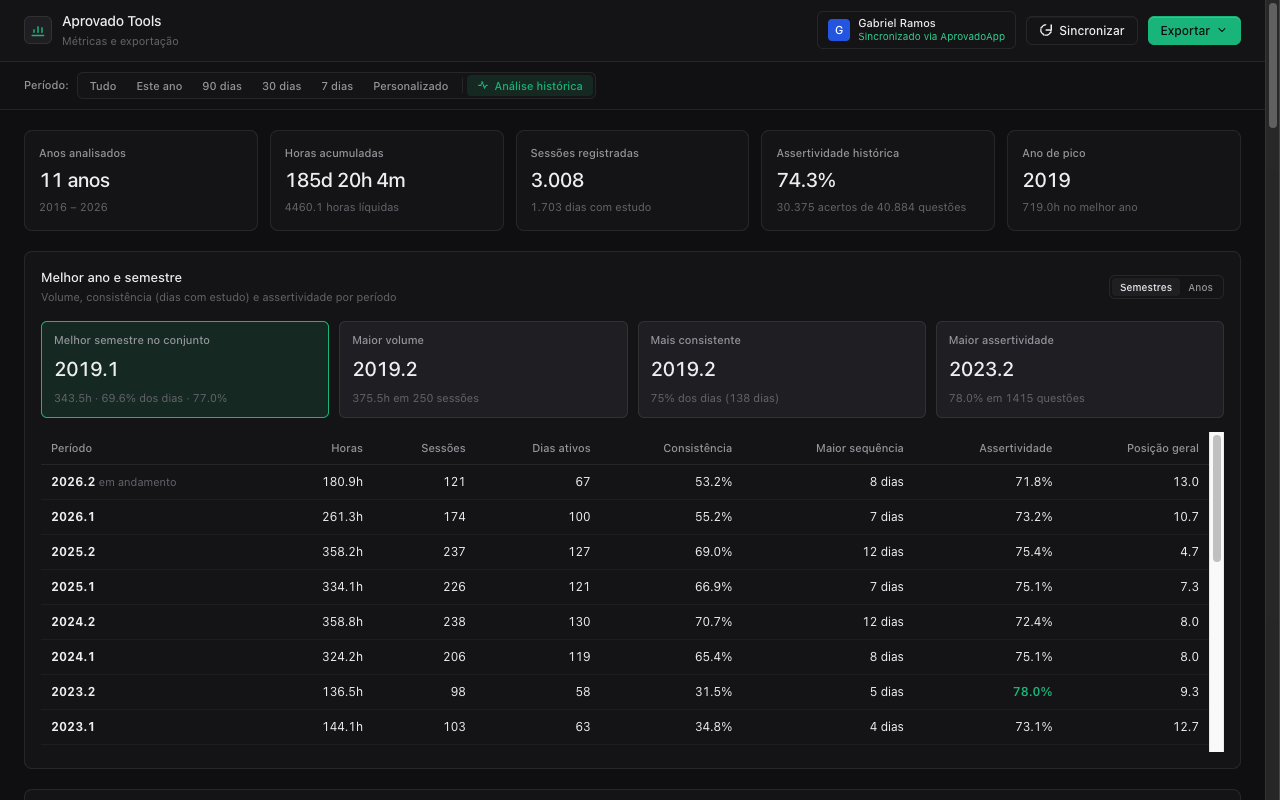
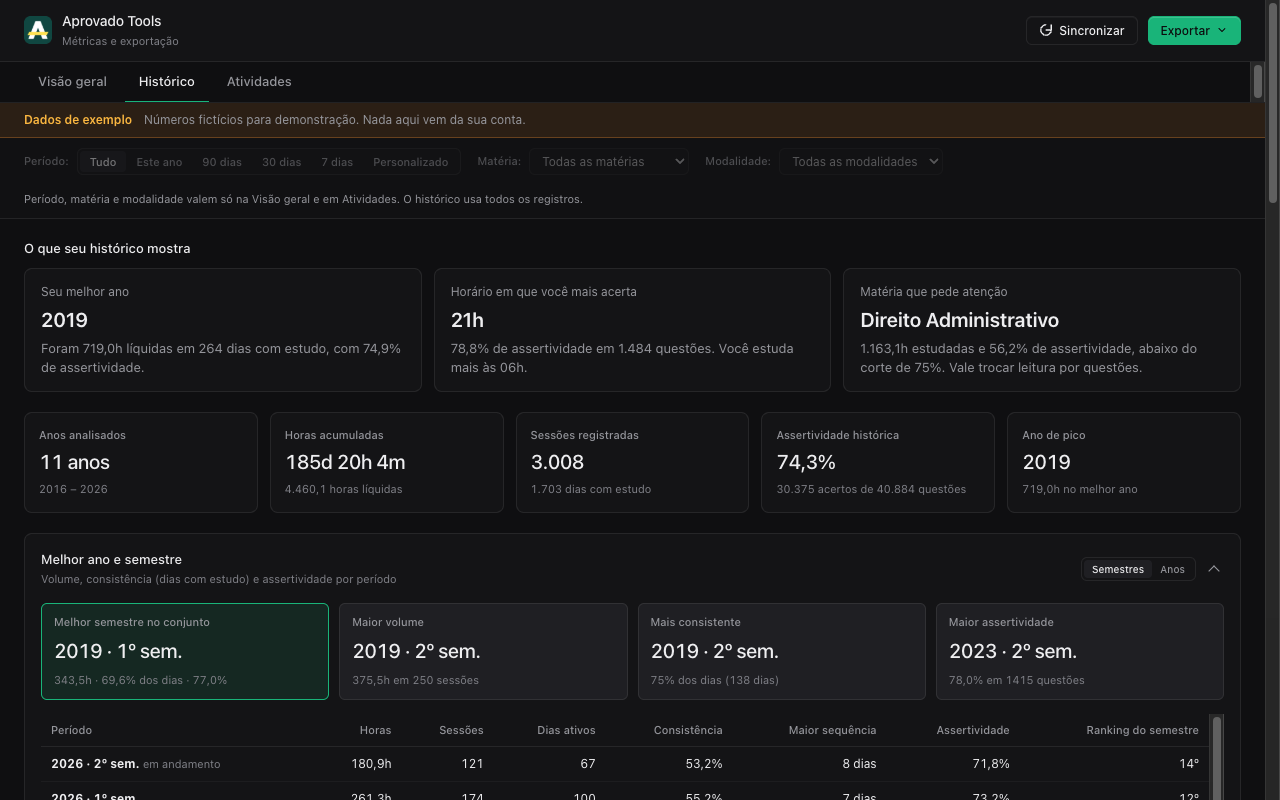
chore: refresh Chrome Web Store screenshots and drop trademark pendency
Retake the four 1280x800 screenshots with the new icon and tabs, update
their descriptions, and remove the trademark-search pendency since this
is a personal, non-commercial project.

diff --git a/docs/marca/guia.html b/docs/marca/guia.html
@@ -158,7 +158,7 @@ section { min-width: 0; }
 
 <main class="wrap">
   <header>
-    <p class="eyebrow">Guia da marca · versão 1 · 3 de novembro de 2026 · ainda não aplicada à extensão</p>
+    <p class="eyebrow">Guia da marca · versão 1 · 3 de novembro de 2026 · aplicada à extensão</p>
     <h1>Aprovado Tools,<br><mark>grifado</mark>.</h1>
     <p class="lede">A barra do A é uma passada de marca-texto, como quem grifa a lei seca. O símbolo junta o nome ao gesto mais típico de quem estuda para concurso, sem prometer aprovação e sem lembrar o logo oficial do AprovadoApp.</p>
     <div class="hero-lockup"><svg aria-hidden="true" xmlns="http://www.w3.org/2000/svg" viewBox="0 0 1453 256"><rect width="256" height="256" rx="56" fill="#0B4F4A"/><path d="M104 44.8 L152 44.8 L185.92 129.6 L137.92 129.6 L128 104.8 L118.08 129.6 L70.08 129.6Z" fill="#FFFFFF"/><path d="M48.32 184 L96.32 184 L88 204.8 L40 204.8Z" fill="#FFFFFF"/><path d="M159.68 184 L207.68 184 L216 204.8 L168 204.8Z" fill="#FFFFFF"/><path d="M44 136.8 L228 136.8 L212 176.8 L28 176.8Z" fill="#FFE53B"/><path transform="translate(320 181.76) scale(0.16291)" d="M6.8570556640625 0.0 228.71417236328125 -660.0H446.42822265625L667.571044921875 0.0H492.28533935546875L341.42828369140625 -530.4285278320312H332.57122802734375L180.71417236328125 0.0ZM134.1427001953125 -118.99993896484375V-231.28570556640625H561.42822265625V-118.99993896484375Z M701.7140502929688 154.2855224609375V-316.000732421875V-528.0H840.5712890625L841.1427001953125 -368.71417236328125L851.5711669921875 -368.14276123046875Q861.999755859375 -426.28564453125 884.2854614257812 -465.0713806152344Q906.5711669921875 -503.85711669921875 941.642578125 -522.9285583496094Q976.7139892578125 -542.0 1025.142578125 -542.0Q1089.42822265625 -542.0 1134.9281616210938 -509.7857360839844Q1180.4281005859375 -477.57147216796875 1204.3566284179688 -415.6429138183594Q1228.28515625 -353.71435546875 1228.28515625 -264.2857666015625Q1228.28515625 -172.71417236328125 1203.3565673828125 -110.71417236328125Q1178.427978515625 -48.71417236328125 1133.28515625 -17.357086181640625Q1088.142333984375 14.0 1027.2853393554688 14.0Q981.1425170898438 14.0 946.7853698730469 -4.571441650390625Q912.42822265625 -23.14288330078125 889.6425170898438 -61.071502685546875Q866.8568115234375 -99.0001220703125 855.8568725585938 -156.14306640625H843.714111328125Q848.9998168945312 -127.7144775390625 853.4283752441406 -97.3572998046875Q857.85693359375 -67.0001220703125 860.6426391601562 -37.785797119140625Q863.4283447265625 -8.57147216796875 863.4283447265625 18.28570556640625V154.2855224609375ZM966.8567504882812 -117.2857666015625Q999.1424560546875 -117.2857666015625 1020.4995727539062 -136.71435546875Q1041.856689453125 -156.1429443359375 1052.3566589355469 -188.78579711914062Q1062.8566284179688 -221.42864990234375 1062.8566284179688 -259.71429443359375Q1062.8566284179688 -301.7142333984375 1051.49951171875 -334.49993896484375Q1040.1423950195312 -367.28564453125 1018.3567199707031 -386.49993896484375Q996.571044921875 -405.7142333984375 965.7139282226562 -405.7142333984375Q943.2854614257812 -405.7142333984375 924.2854919433594 -395.78570556640625Q905.2855224609375 -385.857177734375 891.4283752441406 -367.21435546875Q877.5712280273438 -348.571533203125 869.7854919433594 -322.42864990234375Q861.999755859375 -296.2857666015625 861.999755859375 -263.14276123046875V-252.57147216796875Q861.999755859375 -225.7142333984375 867.7140502929688 -204.57135009765625Q873.4283447265625 -183.428466796875 883.4283447265625 -166.99990844726562Q893.4283447265625 -150.57135009765625 906.7140502929688 -139.42852783203125Q919.999755859375 -128.28570556640625 935.2854309082031 -122.78573608398438Q950.5711059570312 -117.2857666015625 966.8567504882812 -117.2857666015625Z M1284.7140502929688 0.0V-274.71466064453125V-528.0H1422.1427001953125L1422.9998168945312 -327.142578125H1434.7139892578125Q1440.9996948242188 -406.85699462890625 1459.0711059570312 -453.3570556640625Q1477.1425170898438 -499.85711669921875 1506.4995727539062 -519.9285583496094Q1535.8566284179688 -540.0 1575.1421508789062 -540.0Q1590.2850952148438 -540.0 1606.9280395507812 -536.2856750488281Q1623.5709838867188 -532.5713500976562 1640.8567504882812 -524.1427001953125L1633.4281616210938 -346.71405029296875Q1613.1423950195312 -357.99981689453125 1592.8566589355469 -363.35699462890625Q1572.5709228515625 -368.71417236328125 1554.9994506835938 -368.71417236328125Q1520.99951171875 -368.71417236328125 1497.1424255371094 -351.5712890625Q1473.2853393554688 -334.42840576171875 1460.3568115234375 -300.7140808105469Q1447.4282836914062 -266.999755859375 1445.999755859375 -217.85687255859375V0.0Z M1919.85693359375 14.0Q1842.4284057617188 14.0 1782.7141418457031 -16.642852783203125Q1722.9998779296875 -47.28570556640625 1689.428466796875 -108.92855834960938Q1655.8570556640625 -170.5714111328125 1655.8570556640625 -263.5714111328125Q1655.8570556640625 -359.4285888671875 1690.4999084472656 -420.9285888671875Q1725.1427612304688 -482.4285888671875 1785.3570251464844 -512.2142944335938Q1845.5712890625 -542.0 1921.9998168945312 -542.0Q2000.85693359375 -542.0 2060.356903076172 -511.3571472167969Q2119.8568725585938 -480.71429443359375 2153.0711364746094 -419.21429443359375Q2186.285400390625 -357.71429443359375 2186.285400390625 -264.0Q2186.285400390625 -167.5714111328125 2151.3568420410156 -105.92855834960938Q2116.4282836914062 -44.28570556640625 2056.0711669921875 -15.142852783203125Q1995.7140502929688 14.0 1919.85693359375 14.0ZM1924.1426391601562 -104.4285888671875Q1956.5711669921875 -104.4285888671875 1978.4282836914062 -121.64288330078125Q2000.285400390625 -138.857177734375 2011.5711059570312 -172.857177734375Q2022.8568115234375 -206.857177734375 2022.8568115234375 -254.71429443359375Q2022.8568115234375 -307.0 2010.5711059570312 -342.78570556640625Q1998.285400390625 -378.5714111328125 1974.9282836914062 -397.7142639160156Q1951.5711669921875 -416.85711669921875 1917.2855224609375 -416.85711669921875Q1885.8569946289062 -416.85711669921875 1863.8570251464844 -399.642822265625Q1841.8570556640625 -382.42852783203125 1830.5713500976562 -348.42852783203125Q1819.28564453125 -314.42852783203125 1819.28564453125 -265.5714111328125Q1819.28564453125 -187.857177734375 1846.928466796875 -146.14288330078125Q1874.5712890625 -104.4285888671875 1924.1426391601562 -104.4285888671875Z M2340.4284057617188 0.0 2177.4285278320312 -527.7142944335938H2351.428466796875L2445.2855224609375 -131.71435546875H2452.9996948242188L2549.9996337890625 -527.7142944335938H2714.5709838867188L2551.285400390625 0.0Z M2855.1427612304688 14.0Q2813.9999389648438 14.0 2778.5713500976562 -0.999969482421875Q2743.1427612304688 -15.99993896484375 2721.2855834960938 -48.07135009765625Q2699.4284057617188 -80.14276123046875 2699.4284057617188 -131.7142333984375Q2699.4284057617188 -179.5714111328125 2717.9998474121094 -209.78570556640625Q2736.5712890625 -240.0 2768.9998474121094 -258.21429443359375Q2801.4284057617188 -276.4285888671875 2842.142608642578 -286.5Q2882.8568115234375 -296.5714111328125 2926.4280395507812 -304.142822265625Q2971.8568115234375 -312.71429443359375 2995.999725341797 -318.2857360839844Q3020.1426391601562 -323.857177734375 3029.7854919433594 -332.4285888671875Q3039.4283447265625 -341.0 3039.4283447265625 -356.42852783203125Q3039.4283447265625 -384.28570556640625 3018.9283142089844 -400.142822265625Q2998.4282836914062 -415.99993896484375 2961.999755859375 -415.99993896484375Q2938.2855224609375 -415.99993896484375 2915.9998168945312 -407.42852783203125Q2893.714111328125 -398.85711669921875 2879.1427001953125 -378.7856750488281Q2864.5712890625 -358.7142333984375 2862.9999389648438 -323.85699462890625L2719.5713500976562 -343.2852783203125Q2722.1426391601562 -400.28546142578125 2743.856903076172 -438.6427001953125Q2765.5711669921875 -476.99993896484375 2801.0711975097656 -499.642822265625Q2836.5712280273438 -522.2857055664062 2879.6426696777344 -532.1428527832031Q2922.714111328125 -542.0 2967.4283447265625 -542.0Q3046.7140502929688 -542.0 3097.5711975097656 -513.642822265625Q3148.4283447265625 -485.28564453125 3172.9283447265625 -430.3570556640625Q3197.4283447265625 -375.428466796875 3197.4283447265625 -294.99993896484375V-204.714111328125Q3197.4283447265625 -170.85699462890625 3197.856903076172 -136.4998779296875Q3198.2854614257812 -102.14276123046875 3198.999725341797 -68.14279174804688Q3199.7139892578125 -34.142822265625 3200.8568115234375 0.0H3060.285400390625Q3059.142578125 -32.28582763671875 3057.999755859375 -67.8572998046875Q3056.85693359375 -103.42877197265625 3056.2855224609375 -142.4288330078125H3046.28564453125Q3039.4285888671875 -99.42877197265625 3013.6428833007812 -63.785858154296875Q2987.857177734375 -28.1429443359375 2947.5 -7.07147216796875Q2907.142822265625 14.0 2855.1427612304688 14.0ZM2923.8569946289062 -102.857177734375Q2941.1427001953125 -102.857177734375 2960.3569946289062 -109.357177734375Q2979.5712890625 -115.857177734375 2996.928436279297 -129.85720825195312Q3014.2855834960938 -143.85723876953125 3026.1427001953125 -167.50018310546875Q3037.9998168945312 -191.14312744140625 3040.2854614257812 -224.7147216796875L3039.7140502929688 -264.7142333984375L3064.9998168945312 -265.4285888671875Q3053.8570556640625 -252.71429443359375 3034.0713806152344 -245.0Q3014.2857055664062 -237.28570556640625 2991.142852783203 -232.92855834960938Q2968.0 -228.5714111328125 2944.7857055664062 -224.0714111328125Q2921.5714111328125 -219.5714111328125 2902.285675048828 -212.21426391601562Q2882.9999389648438 -204.85711669921875 2871.2142028808594 -192.49996948242188Q2859.428466796875 -180.142822265625 2859.428466796875 -158.42852783203125Q2859.428466796875 -131.85711669921875 2878.071319580078 -117.35714721679688Q2896.7141723632812 -102.857177734375 2923.8569946289062 -102.857177734375Z M3455.4282836914062 14.0Q3395.85693359375 14.0 3349.071258544922 -17.714263916015625Q3302.2855834960938 -49.42852783203125 3275.3570251464844 -112.28567504882812Q3248.428466796875 -175.142822265625 3248.428466796875 -268.57147216796875Q3248.428466796875 -356.4287109375 3272.428466796875 -417.3572692871094Q3296.428466796875 -478.28582763671875 3341.428436279297 -509.8572082519531Q3386.4284057617188 -541.4285888671875 3448.8568725585938 -541.4285888671875Q3495.9996948242188 -541.4285888671875 3531.2139892578125 -522.7142944335938Q3566.4282836914062 -504.0 3589.4282836914062 -464.42852783203125Q3612.4282836914062 -424.8570556640625 3622.8568115234375 -362.2855224609375H3636.4281005859375Q3630.856689453125 -395.99981689453125 3625.5709838867188 -428.2855529785156Q3620.2852783203125 -460.5712890625 3617.4995727539062 -490.2856140136719Q3614.7138671875 -519.9999389648438 3614.7138671875 -545.0V-705.714111328125H3776.7138671875V-207.1422119140625V0.0H3638.2852172851562L3637.7138061523438 -161.00006103515625H3626.42822265625Q3615.42822265625 -102.42864990234375 3592.6425170898438 -63.50006103515625Q3569.8568115234375 -24.57147216796875 3535.785400390625 -5.285736083984375Q3501.7139892578125 14.0 3455.4282836914062 14.0ZM3512.7139892578125 -115.28570556640625Q3535.1424560546875 -115.28570556640625 3554.1424255371094 -125.2142333984375Q3573.1423950195312 -135.14276123046875 3586.856689453125 -153.9998779296875Q3600.5709838867188 -172.85699462890625 3608.356719970703 -198.9998779296875Q3616.1424560546875 -225.14276123046875 3616.1424560546875 -257.57147216796875V-268.57135009765625Q3616.1424560546875 -295.4285888671875 3610.4281616210938 -317.6429138183594Q3604.7138671875 -339.85723876953125 3594.856719970703 -356.7857971191406Q3584.9995727539062 -373.71435546875 3571.7138671875 -385.2143249511719Q3558.4281616210938 -396.71429443359375 3542.7853393554688 -402.5714111328125Q3527.1425170898438 -408.42852783203125 3510.8568725585938 -408.42852783203125Q3479.2854614257812 -408.42852783203125 3457.5711975097656 -388.28564453125Q3435.85693359375 -368.14276123046875 3424.9998168945312 -334.7856140136719Q3414.1427001953125 -301.428466796875 3414.1427001953125 -260.7142333984375Q3414.1427001953125 -220.0 3425.856964111328 -186.85714721679688Q3437.5712280273438 -153.71429443359375 3459.7140502929688 -134.5Q3481.8568725585938 -115.28570556640625 3512.7139892578125 -115.28570556640625Z M4094.85693359375 14.0Q4017.4284057617188 14.0 3957.714141845703 -16.642852783203125Q3897.9998779296875 -47.28570556640625 3864.428466796875 -108.92855834960938Q3830.8570556640625 -170.5714111328125 3830.8570556640625 -263.5714111328125Q3830.8570556640625 -359.4285888671875 3865.4999084472656 -420.9285888671875Q3900.1427612304688 -482.4285888671875 3960.3570251464844 -512.2142944335938Q4020.5712890625 -542.0 4096.999816894531 -542.0Q4175.85693359375 -542.0 4235.356903076172 -511.3571472167969Q4294.856872558594 -480.71429443359375 4328.071136474609 -419.21429443359375Q4361.285400390625 -357.71429443359375 4361.285400390625 -264.0Q4361.285400390625 -167.5714111328125 4326.356842041016 -105.92855834960938Q4291.428283691406 -44.28570556640625 4231.0711669921875 -15.142852783203125Q4170.714050292969 14.0 4094.85693359375 14.0ZM4099.142639160156 -104.4285888671875Q4131.5711669921875 -104.4285888671875 4153.428283691406 -121.64288330078125Q4175.285400390625 -138.857177734375 4186.571105957031 -172.857177734375Q4197.8568115234375 -206.857177734375 4197.8568115234375 -254.71429443359375Q4197.8568115234375 -307.0 4185.571105957031 -342.78570556640625Q4173.285400390625 -378.5714111328125 4149.928283691406 -397.7142639160156Q4126.5711669921875 -416.85711669921875 4092.2855224609375 -416.85711669921875Q4060.8569946289062 -416.85711669921875 4038.8570251464844 -399.642822265625Q4016.8570556640625 -382.42852783203125 4005.5713500976562 -348.42852783203125Q3994.28564453125 -314.42852783203125 3994.28564453125 -265.5714111328125Q3994.28564453125 -187.857177734375 4021.928466796875 -146.14288330078125Q4049.5712890625 -104.4285888671875 4099.142639160156 -104.4285888671875Z" fill="#10201E"/><path transform="translate(1073.62 181.76) scale(0.16291)" d="M204.14263916015625 0.0V-660.0H313.64263916015625V0.0ZM16.57135009765625 -565.0714111328125V-660.0H501.3567810058594V-565.0714111328125Z M711.2855224609375 13.357147216796875Q638.1427001953125 13.357147216796875 580.9284210205078 -17.392837524414062Q523.7141418457031 -48.142822265625 491.0355682373047 -109.03567504882812Q458.35699462890625 -169.92852783203125 458.35699462890625 -260.2142639160156Q458.35699462890625 -351.9285583496094 491.7498474121094 -412.28570556640625Q525.1427001953125 -472.6428527832031 581.9998321533203 -502.82142639160156Q638.8569641113281 -533.0 709.7855224609375 -533.0Q782.7140808105469 -533.0 839.6426391601562 -502.1071472167969Q896.5711975097656 -471.21429443359375 929.3569030761719 -410.21429443359375Q962.1426086425781 -349.21429443359375 962.1426086425781 -258.1428527832031Q962.1426086425781 -166.21426391601562 929.1783294677734 -105.89283752441406Q896.2140502929688 -45.5714111328125 839.2854919433594 -16.107131958007812Q782.35693359375 13.357147216796875 711.2855224609375 13.357147216796875ZM713.4997863769531 -72.85714721679688Q757.0711975097656 -72.85714721679688 787.9283294677734 -94.0Q818.7854614257812 -115.14285278320312 835.4283142089844 -155.6071319580078Q852.0711669921875 -196.0714111328125 852.0711669921875 -252.92855834960938Q852.0711669921875 -312.28570556640625 834.6783142089844 -354.6071319580078Q817.2854614257812 -396.9285583496094 785.0354766845703 -420.1785583496094Q752.7854919433594 -443.4285583496094 707.6426696777344 -443.4285583496094Q664.714111328125 -443.4285583496094 633.5355529785156 -421.7856903076172Q602.3569946289062 -400.142822265625 585.4641418457031 -359.3571014404297Q568.5712890625 -318.5713806152344 568.5712890625 -261.4999694824219Q568.5712890625 -173.0 607.1069793701172 -122.92857360839844Q645.6426696777344 -72.85714721679688 713.4997863769531 -72.85714721679688Z M1279.2855224609375 13.357147216796875Q1206.1427001953125 13.357147216796875 1148.9284210205078 -17.392837524414062Q1091.7141418457031 -48.142822265625 1059.0355682373047 -109.03567504882812Q1026.3569946289062 -169.92852783203125 1026.3569946289062 -260.2142639160156Q1026.3569946289062 -351.9285583496094 1059.7498474121094 -412.28570556640625Q1093.1427001953125 -472.6428527832031 1149.9998321533203 -502.82142639160156Q1206.8569641113281 -533.0 1277.7855224609375 -533.0Q1350.7140808105469 -533.0 1407.6426391601562 -502.1071472167969Q1464.5711975097656 -471.21429443359375 1497.3569030761719 -410.21429443359375Q1530.1426086425781 -349.21429443359375 1530.1426086425781 -258.1428527832031Q1530.1426086425781 -166.21426391601562 1497.1783294677734 -105.89283752441406Q1464.2140502929688 -45.5714111328125 1407.2854919433594 -16.107131958007812Q1350.35693359375 13.357147216796875 1279.2855224609375 13.357147216796875ZM1281.4997863769531 -72.85714721679688Q1325.0711975097656 -72.85714721679688 1355.9283294677734 -94.0Q1386.7854614257812 -115.14285278320312 1403.4283142089844 -155.6071319580078Q1420.0711669921875 -196.0714111328125 1420.0711669921875 -252.92855834960938Q1420.0711669921875 -312.28570556640625 1402.6783142089844 -354.6071319580078Q1385.2854614257812 -396.9285583496094 1353.0354766845703 -420.1785583496094Q1320.7854919433594 -443.4285583496094 1275.6426696777344 -443.4285583496094Q1232.714111328125 -443.4285583496094 1201.5355529785156 -421.7856903076172Q1170.3569946289062 -400.142822265625 1153.4641418457031 -359.3571014404297Q1136.5712890625 -318.5713806152344 1136.5712890625 -261.4999694824219Q1136.5712890625 -173.0 1175.1069793701172 -122.92857360839844Q1213.6426696777344 -72.85714721679688 1281.4997863769531 -72.85714721679688Z M1612.9997253417969 0.0V-690.8569641113281H1721.5711669921875V0.0Z M2032.4998474121094 13.357147216796875Q1981.3570251464844 13.357147216796875 1938.821304321289 2.71429443359375Q1896.2855834960938 -7.928558349609375 1865.7855682373047 -30.21429443359375Q1835.2855529785156 -52.500030517578125 1819.214126586914 -87.78582763671875Q1803.1427001953125 -123.07162475585938 1804.928466796875 -171.5003662109375L1899.9285583496094 -186.57162475585938Q1898.9999694824219 -146.14291381835938 1915.5713806152344 -120.4285888671875Q1932.1427917480469 -94.71426391601562 1963.3213348388672 -82.74998474121094Q1994.4998779296875 -70.78570556640625 2036.8569641113281 -70.78570556640625Q2089.714080810547 -70.78570556640625 2119.714080810547 -88.35713195800781Q2149.714080810547 -105.92855834960938 2149.714080810547 -138.28570556640625Q2149.714080810547 -162.78570556640625 2134.0355224609375 -176.6071319580078Q2118.356964111328 -190.42855834960938 2088.9998321533203 -199.0714111328125Q2059.6427001953125 -207.71426391601562 2018.6427001953125 -216.0714111328125Q1977.4997863769531 -225.14285278320312 1939.9283447265625 -235.57142639160156Q1902.3569030761719 -246.0 1873.0354919433594 -262.6428527832031Q1843.7140808105469 -279.28570556640625 1826.9283905029297 -305.9642639160156Q1810.1427001953125 -332.642822265625 1810.1427001953125 -373.5713806152344Q1810.1427001953125 -422.4999694824219 1836.0355682373047 -458.0714111328125Q1861.9284362792969 -493.6428527832031 1909.2498626708984 -513.3214263916016Q1956.5712890625 -533.0 2020.5712585449219 -533.0Q2080.4283447265625 -533.0 2128.8212280273438 -514.0714263916016Q2177.214111328125 -495.1428527832031 2205.4998321533203 -455.78564453125Q2233.7855529785156 -416.4284362792969 2232.0711669921875 -355.4282531738281L2137.3568420410156 -339.49981689453125Q2138.9283142089844 -376.0713195800781 2123.499755859375 -400.10707092285156Q2108.0711975097656 -424.142822265625 2080.356918334961 -436.14283752441406Q2052.6426391601562 -448.1428527832031 2015.7140808105469 -448.1428527832031Q1968.5712585449219 -448.1428527832031 1940.964126586914 -429.78570556640625Q1913.3569946289062 -411.4285583496094 1913.3569946289062 -380.4285583496094Q1913.3569946289062 -354.9999694824219 1930.321273803711 -340.32139587402344Q1947.2855529785156 -325.642822265625 1977.6069793701172 -317.4999694824219Q2007.9284057617188 -309.35711669921875 2047.6427001953125 -301.2142639160156Q2084.0712280273438 -294.28570556640625 2120.35693359375 -284.75Q2156.6426391601562 -275.21429443359375 2186.6783599853516 -258.5357208251953Q2216.714080810547 -241.85714721679688 2235.0355224609375 -213.78570556640625Q2253.356964111328 -185.71426391601562 2253.356964111328 -141.57138061523438Q2253.356964111328 -93.28570556640625 2226.821258544922 -58.5Q2200.2855529785156 -23.71429443359375 2150.9998474121094 -5.1785736083984375Q2101.714141845703 13.357147216796875 2032.4998474121094 13.357147216796875Z" fill="#0B4F4A"/></svg></div>
@@ -289,9 +289,8 @@ section { min-width: 0; }
         <span><code>png/icon-16.png</code> · <code>32</code> · <code>48</code> · <code>128</code></span>
       </div>
       <ol class="todo">
-        <li><b>Pesquisa de marca registrada</b> no INPI e busca reversa de imagem antes de publicar. Este guia não substitui essa checagem.</li>
-        <li><b>Aplicar na extensão numa branch própria</b>: trocar <code>icons/</code>, aposentar o <code>scripts/generate_icons.py</code> e seguir o workflow de validação.</li>
-                <li><b>Capturas da Chrome Web Store</b> com a nova identidade.</li>
+        <li><b>Aplicado na extensão:</b> <code>icons/</code> usa os PNGs desta pasta e o <code>scripts/generate_icons.py</code> foi removido.</li>
+        <li><b>Capturas da Chrome Web Store:</b> refeitas com a nova identidade em <code>store-assets/</code>.</li>
       </ol>
     </div>
   </section>

diff --git a/CHROMEWEBSTORE.md b/CHROMEWEBSTORE.md
@@ -66,9 +66,9 @@ Português (Brasil)
 | Item | Dimensões | Status | Arquivo / Destino |
 |---|---|---|---|
 | Ícone da Loja [OBRIGATÓRIO] | 128×128 PNG | ✅ Pronto | `icons/icon-128.png` |
-| Captura 1 [OBRIGATÓRIO] | 1280×800 | ✅ Pronto | `store-assets/screenshot-1-dashboard.png` (Dashboard: visão geral com cards de métricas e filtros) |
-| Captura 2 [RECOMENDADO] | 1280×800 | ✅ Pronto | `store-assets/screenshot-2-historico.png` (Análise histórica: evolução semestral/anual e comparativo) |
-| Captura 3 [RECOMENDADO] | 1280×800 | ✅ Pronto | `store-assets/screenshot-3-matriz-rendimento.png` (Matriz de rendimento e mapa anual de calor) |
+| Captura 1 [OBRIGATÓRIO] | 1280×800 | ✅ Pronto | `store-assets/screenshot-1-dashboard.png` (Dashboard: visão geral com abas, cards de métricas, gráfico por período e filtros) |
+| Captura 2 [RECOMENDADO] | 1280×800 | ✅ Pronto | `store-assets/screenshot-2-historico.png` (Análise histórica: conclusões, melhor ano e semestre e ranking) |
+| Captura 3 [RECOMENDADO] | 1280×800 | ✅ Pronto | `store-assets/screenshot-3-matriz-rendimento.png` (Matriz de rendimento por matéria e mix metodológico) |
 | Captura 4 [RECOMENDADO] | 1280×800 | ✅ Pronto | `store-assets/screenshot-4-exportacao.png` (Exportação de dados: CSV, JSON e Markdown) |
 | Banner Promocional Pequeno [RECOMENDADO] | 440×280 PNG/JPEG | ⬜ Opcional | `store-assets/promo-small.png` |
 | Banner Promocional Principal (Marquee) | 1400×560 PNG/JPEG | ⬜ Opcional | `store-assets/promo-marquee.png` |
@@ -77,6 +77,7 @@ Português (Brasil)
 - Utilize dados sintéticos/mock (por exemplo, via `?mock=true` no dashboard) para proteger a privacidade dos dados reais.
 - Siga as especificações oficiais da Chrome Web Store: 1280×800 ou 640×400 pixels, sem bordas ou distorções.
 - Demonstre o produto em funcionamento real, com boa legibilidade e contraste.
+- As capturas atuais foram refeitas em 03/11/2026 a partir de `?mock=true`, com o ícone do A grifado, e mostram a faixa "Dados de exemplo".
 
 ## Justificativa de Permissões (Permissions Justification)
 

diff --git a/docs/validacao-capturas-loja.md b/docs/validacao-capturas-loja.md
@@ -1,0 +1,16 @@
+# Validação das capturas da Chrome Web Store
+
+- Fonte: branch `chore/capturas-loja`, criada de `fix/ux-etapa-2-3`, em 03/11/2026, America/Sao_Paulo.
+- Escopo: `store-assets/screenshot-1-dashboard.png` a `screenshot-4-exportacao.png`, descrições em
+  `CHROMEWEBSTORE.md`, e remoção da pendência de pesquisa de marca registrada dos documentos da marca
+  (o projeto é pessoal e sem fins comerciais).
+- Navegador: ego-browser no Chrome do mantenedor, extensão carregada deste checkout e recarregada antes
+  da captura; dashboard com `?mock=true`, janela de 1280×800 e escala 1.
+- Resultado: quatro PNGs de 1280×800. Visão geral com abas e gráfico por mês; Histórico com conclusões e
+  ranking; Matriz de rendimento e mix; menu Exportar aberto com os quatro nomes atuais. Todas mostram o ícone
+  novo e a faixa "Dados de exemplo". Nenhum dado real, nome de conta ou e-mail aparece.
+- Visual: as quatro imagens foram abertas e inspecionadas. Duas capturas iniciais saíram quebradas por recorte
+  em coordenadas de página (uma em branco, outra deslocada) e foram refeitas sem recorte.
+- Automatizado: `npm run check:docs` e `git diff --check`, código 0. Sem alteração de comportamento.
+- Não executado: envio à loja; conferência no painel de desenvolvedores da Chrome Web Store.
+- Limpeza: espaços de tarefa do ego-browser encerrados sem abas mantidas.

diff --git a/docs/README.md b/docs/README.md
@@ -35,6 +35,7 @@ Os recibos abaixo descrevem o commit, a data e o ambiente da execução registra
 - [UX etapa 3: Análise histórica](validacao-ux-etapa-3-historico.md): conclusões, blocos recolhíveis, matriz, ranking e contraste.
 - [UX etapa 3: popup e painel lateral](validacao-ux-etapa-3-popup-painel.md): sincronização, estados vazios e contraste.
 - [UX etapas 2 e 3, integração](validacao-ux-etapas-2-3-integracao.md): união das três frentes, carga com cache e conferência no Chrome.
+- [Capturas da loja](validacao-capturas-loja.md): quatro capturas 1280×800 com a nova identidade.
 - [Revisão da documentação](validacao-documentacao.md): links e conferência factual dos guias.
 - [Otimização de memória e delegação](validacao-memoria-delegacao.md): redução de listeners e teste de estresse de heap.
 - [Retrospectiva de 03/11/2026](retro-20261103.md): decisões e aprendizados da rodada.

diff --git a/docs/marca/README.md b/docs/marca/README.md
@@ -97,9 +97,11 @@ Os desenhos foram feitos com a skill
 [logo-design](https://github.com/kaankiziltug/logo-design-skill) e revisados
 em 16, 32, 48 e 128 px, em uma cor e invertidos.
 
-1. **Pesquisa de marca registrada** no INPI e busca reversa de imagem antes de
-   publicar. Este guia não substitui essa checagem.
-2. **Aplicação na extensão:** feita. `icons/` usa os PNGs de `png/` e o
+O Aprovado Tools é um projeto pessoal e sem fins comerciais, então não há
+pesquisa de marca registrada prevista.
+
+1. **Aplicação na extensão:** feita. `icons/` usa os PNGs de `png/` e o
    `scripts/generate_icons.py` foi removido. Veja o
    [recibo](../validacao-icones-a-grifado.md).
-3. **Atualizar as capturas da Chrome Web Store** com a nova identidade.
+2. **Capturas da Chrome Web Store:** refeitas com a nova identidade em
+   `store-assets/`.

diff --git a/docs/direcao-logo.md b/docs/direcao-logo.md
@@ -95,8 +95,9 @@ tipografia, assinaturas, regras de uso e as artes em SVG e PNG.
 
 Testes feitos nos desenhos: leitura em 16 px ampliada pixel a pixel, versões de
 uma cor e invertidas, contraste das cores e comparação com marcas de educação da
-biblioteca da skill de logo. Não houve teste de reconhecimento com usuários nem
-pesquisa de marca registrada.
+biblioteca da skill de logo. Não houve teste de reconhecimento com usuários. O
+projeto é pessoal e sem fins comerciais, então não houve pesquisa de marca
+registrada.
 
 ## Limites e retomada
 

diff --git a/docs/validacao-icones-a-grifado.md b/docs/validacao-icones-a-grifado.md
@@ -18,6 +18,5 @@
 - Não executado: ícone na barra de ferramentas e no menu de extensões do Chrome (não observados
   na captura da página); abertura nativa do popup e do painel encaixado; dashboard sem
   `?mock=true`; console do navegador; CI (sem push nesta etapa).
-- Pendências: capturas da Chrome Web Store ainda mostram o ícone anterior; pesquisa de marca
-  registrada e busca reversa de imagem.
+- Pendências: capturas da Chrome Web Store ainda mostram o ícone anterior.
 - Limpeza: espaço de tarefa do ego-browser encerrado, sem abas mantidas.

diff --git a/docs/validacao-guia-marca.md b/docs/validacao-guia-marca.md
@@ -19,5 +19,4 @@
   ícones em `icons/` continuam os publicados.
 - CI: sem commit ou push nesta tarefa.
 - Limpeza: espaço de tarefa do ego-browser encerrado sem abas mantidas.
-- Pendências: pesquisa de marca registrada, aplicação dos ícones numa branch
-  própria e novas capturas da Chrome Web Store.
+- Pendências: aplicação dos ícones numa branch própria e novas capturas da Chrome Web Store.
